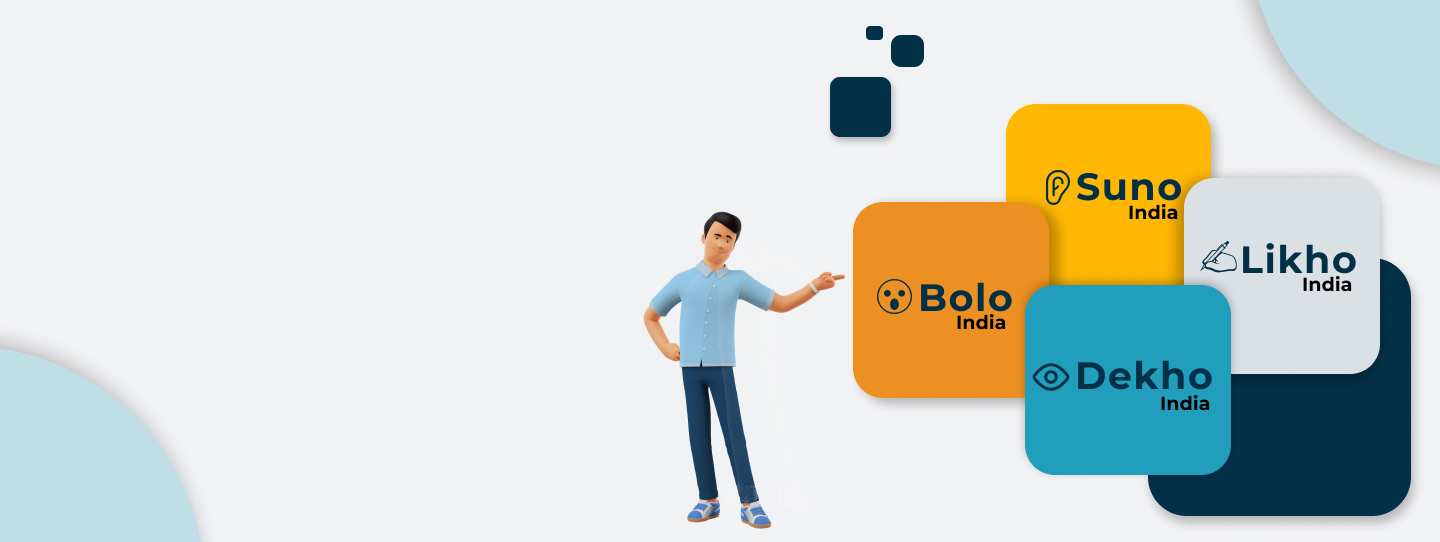
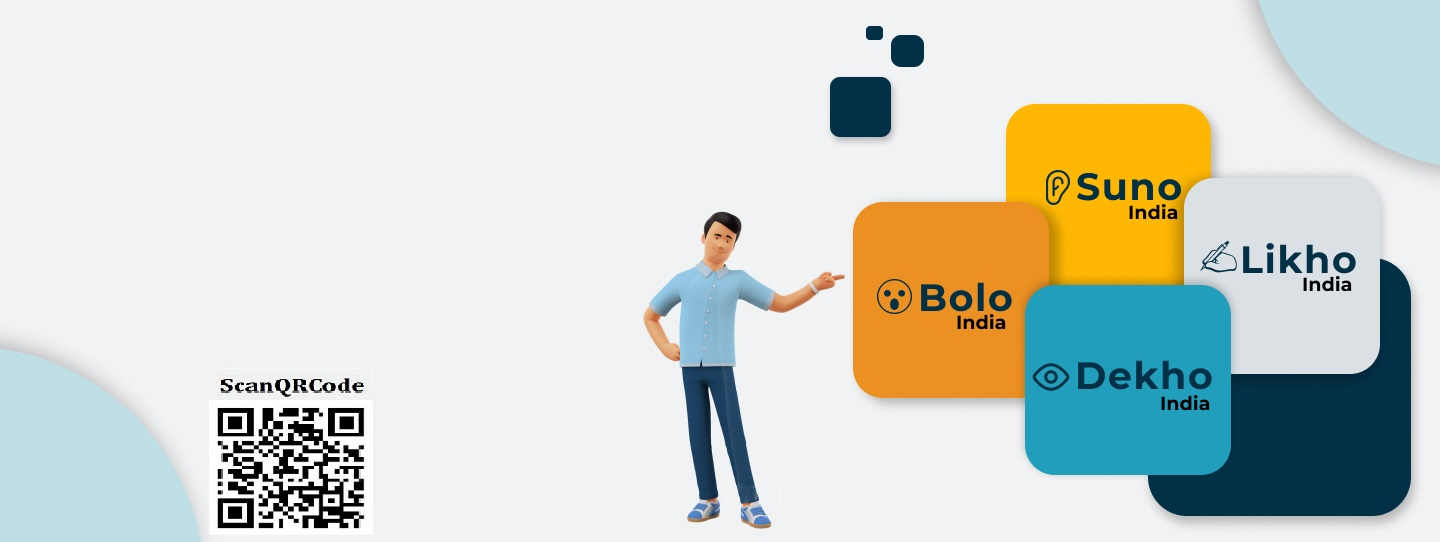
link bhashini QR on hompage carosel

diff --git a/Localisation_App/templates/Localisation_App/translation_quote.html b/Localisation_App/templates/Localisation_App/translation_quote.html
@@ -1,17 +1,10 @@
 {% extends 'Localisation_App/base.html' %} 
-<<<<<<< HEAD
-{% block title %}Translation Quote{% endblock %}
- {% load static %}
-  {% block translation_quote %} 
-  {% comment %} css {% endcomment %}
-=======
 {% block title %}Translation Quote{% endblock %} 
 {% load static %} 
 {% block translation_quote %} 
 
 {% comment %} css {% endcomment %}
 
->>>>>>> 0e27bb55268dc0deabe2637bf3f9d11042b5d88f
 <link
   href="{% static 'Localisation_App/css/translation_quote.css' %}"
   rel="stylesheet"
